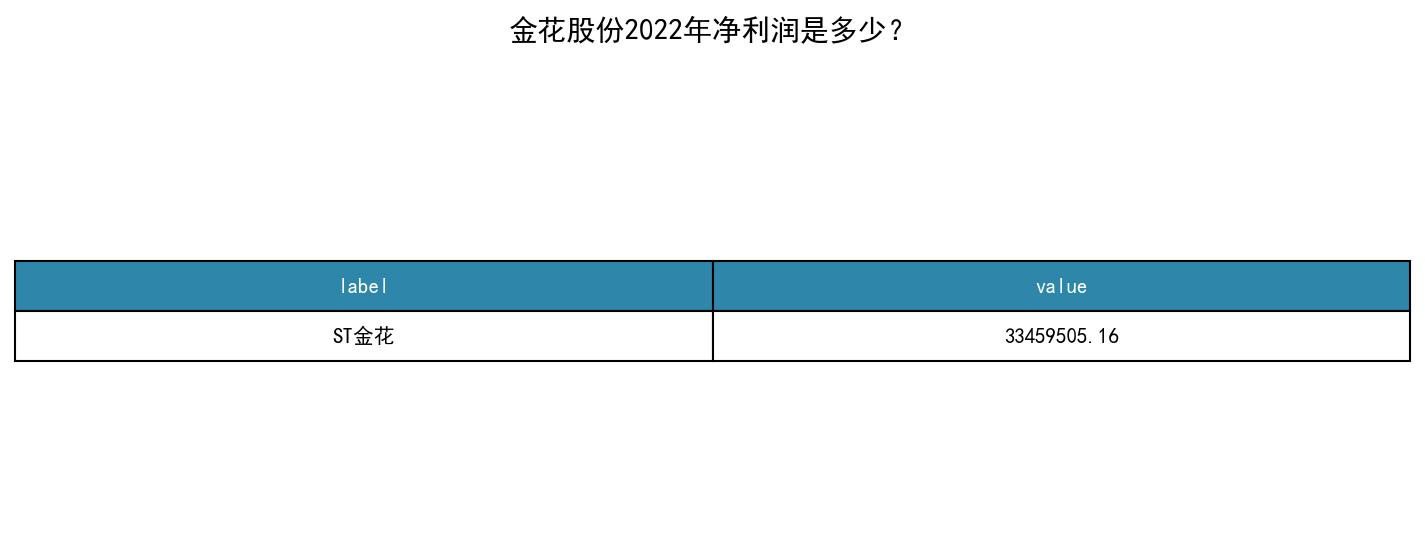
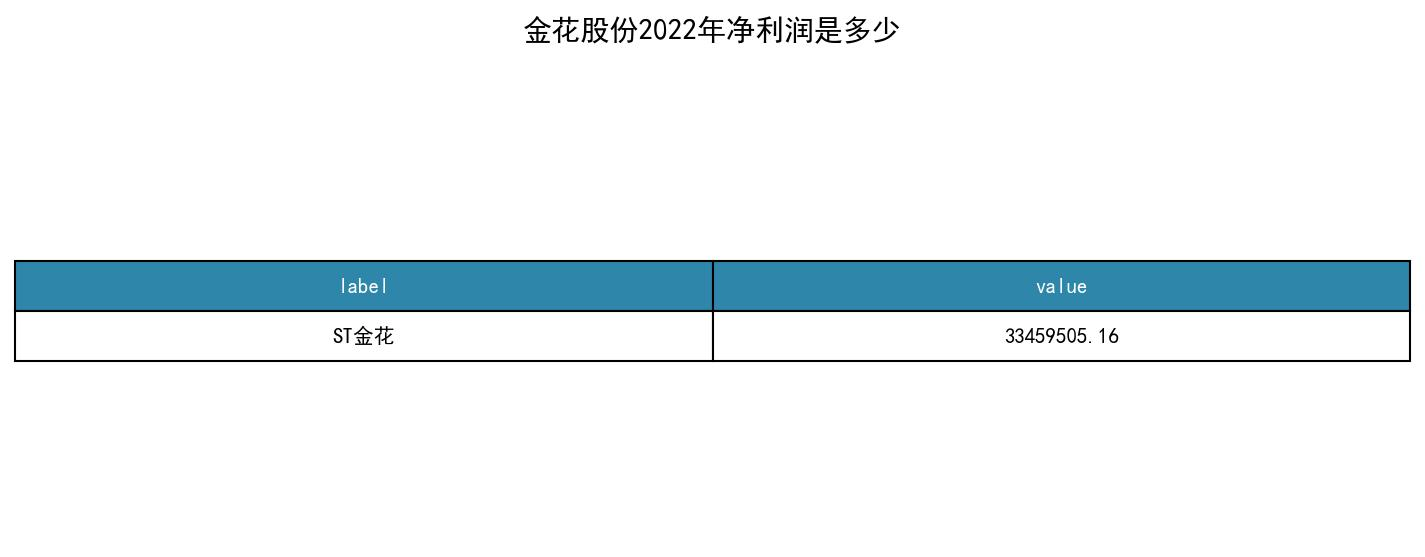
fix backend startup and optimize frontend chunks

Changed region(s): [[0.3396, 0.0305, 0.6484, 0.0916]]

diff --git a/app.py b/app.py
@@ -1,0 +1,149 @@
+# -*- coding: utf-8 -*-
+"""
+FastAPI 后端服务
+提供前端需要的 API 接口
+"""
+import os, sys
+import pymysql
+from typing import Optional
+from fastapi import FastAPI, HTTPException
+from fastapi.middleware.cors import CORSMiddleware
+from pydantic import BaseModel
+
+# 项目根目录
+PROJECT_DIR = os.path.dirname(os.path.abspath(__file__))
+sys.path.insert(0, PROJECT_DIR)
+
+from pipeline import FinancialQA
+from sql_validator import SQLValidator
+
+app = FastAPI(title="Financial Report QA API", version="1.0")
+
+# CORS 允许前端访问
+app.add_middleware(
+    CORSMiddleware,
+    allow_origins=["http://localhost:5173"],
+    allow_credentials=True,
+    allow_methods=["*"],
+    allow_headers=["*"],
+)
+
+# 初始化问答系统
+qa = FinancialQA()
+validator = SQLValidator()
+
+# MySQL 配置
+MYSQL_CONFIG = {
+    "host": "127.0.0.1",
+    "port": 3306,
+    "user": "root",
+    "password": "181415157Ak.",
+    "database": "intelligent_data_query",
+    "charset": "utf8mb4",
+}
+
+
+class ChatRequest(BaseModel):
+    question: str
+
+
+class SQLRequest(BaseModel):
+    sql: str
+
+
+@app.get("/")
+def root():
+    return {"status": "ok", "service": "Financial Report QA API"}
+
+
+@app.post("/chat")
+def chat(req: ChatRequest):
+    """对话式问答"""
+    try:
+        result = qa.ask(req.question)
+        return {
+            "answer": result.get("conclusion", result.get("answer", "")),
+            "sql": result.get("sql", ""),
+            "data": result.get("data"),
+            "chart_path": result.get("chart_path"),
+            "intent": result.get("intent"),
+            "slots": result.get("slots"),
+        }
+    except Exception as e:
+        raise HTTPException(status_code=500, detail=str(e))
+
+
+@app.post("/intent")
+def intent(req: ChatRequest):
+    """意图识别"""
+    try:
+        from predict_intent import predict as predict_intent
+        intent_label, confidence = predict_intent(req.question)
+        return {"intent": intent_label, "confidence": confidence}
+    except Exception as e:
+        raise HTTPException(status_code=500, detail=str(e))
+
+
+@app.post("/sql")
+def execute_sql(req: SQLRequest):
+    """执行 SQL 查询"""
+    if not validator.validate(req.sql):
+        raise HTTPException(status_code=400, detail="SQL 安全检查未通过")
+    try:
+        conn = pymysql.connect(**MYSQL_CONFIG)
+        with conn.cursor(pymysql.cursors.DictCursor) as cur:
+            cur.execute(req.sql)
+            rows = cur.fetchall()
+            columns = [desc[0] for desc in cur.description] if cur.description else []
+        conn.close()
+        return {
+            "columns": columns,
+            "rows": rows,
+            "rowCount": len(rows),
+            "sql": req.sql,
+        }
+    except Exception as e:
+        raise HTTPException(status_code=500, detail=str(e))
+
+
+@app.get("/tables")
+def get_tables():
+    """获取数据库表列表"""
+    try:
+        conn = pymysql.connect(**MYSQL_CONFIG)
+        with conn.cursor() as cur:
+            cur.execute("SHOW TABLES")
+            tables = [row[0] for row in cur.fetchall()]
+        conn.close()
+        return {"tables": tables}
+    except Exception as e:
+        raise HTTPException(status_code=500, detail=str(e))
+
+
+@app.get("/tables/{table_name}/preview")
+def preview_table(table_name: str, limit: int = 5):
+    """预览表数据"""
+    safe_tables = ["balance_sheet", "income_sheet", "stock_income_statement_data",
+                   "core_performance_indicators_sheet", "raw_extracted"]
+    if table_name not in safe_tables:
+        raise HTTPException(status_code=400, detail="不安全的表名")
+    try:
+        conn = pymysql.connect(**MYSQL_CONFIG)
+        with conn.cursor(pymysql.cursors.DictCursor) as cur:
+            cur.execute(f"SELECT * FROM `{table_name}` LIMIT %s", (limit,))
+            rows = cur.fetchall()
+            columns = [desc[0] for desc in cur.description] if cur.description else []
+        conn.close()
+        return {
+            "columns": columns,
+            "rows": rows,
+            "rowCount": len(rows),
+            "sql": f"SELECT * FROM {table_name} LIMIT {limit}",
+        }
+    except Exception as e:
+        raise HTTPException(status_code=500, detail=str(e))
+
+
+if __name__ == "__main__":
+    import uvicorn
+    uvicorn.run(app, host="0.0.0.0", port=8000)
